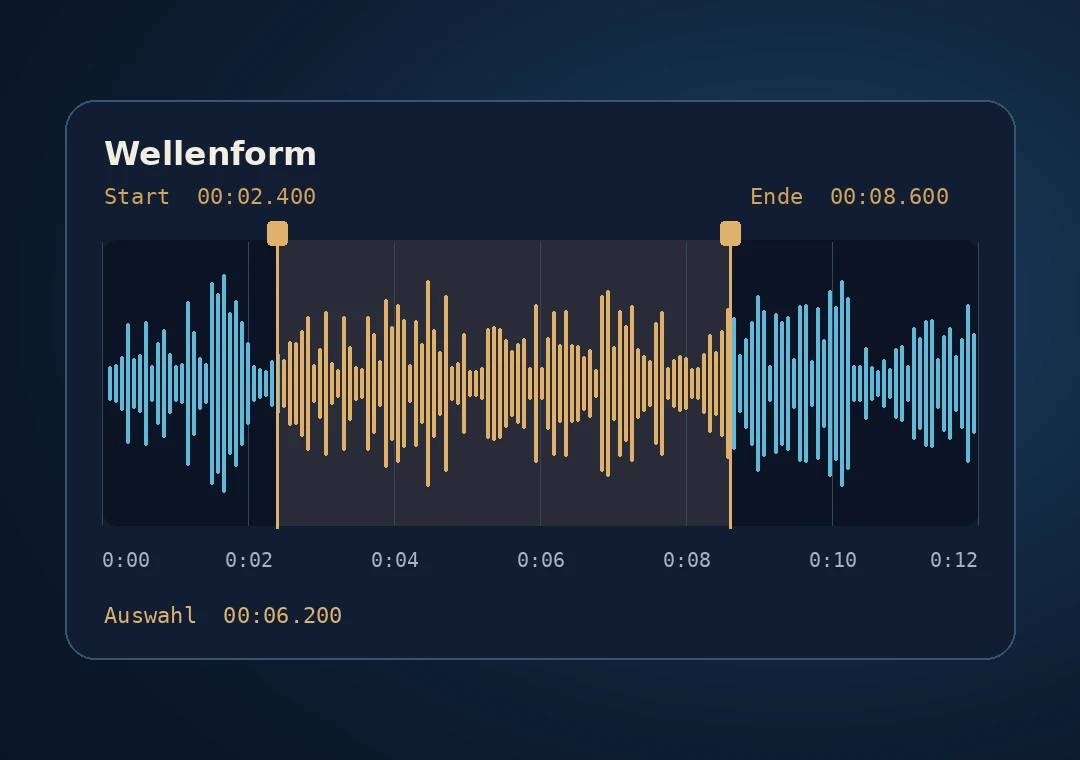
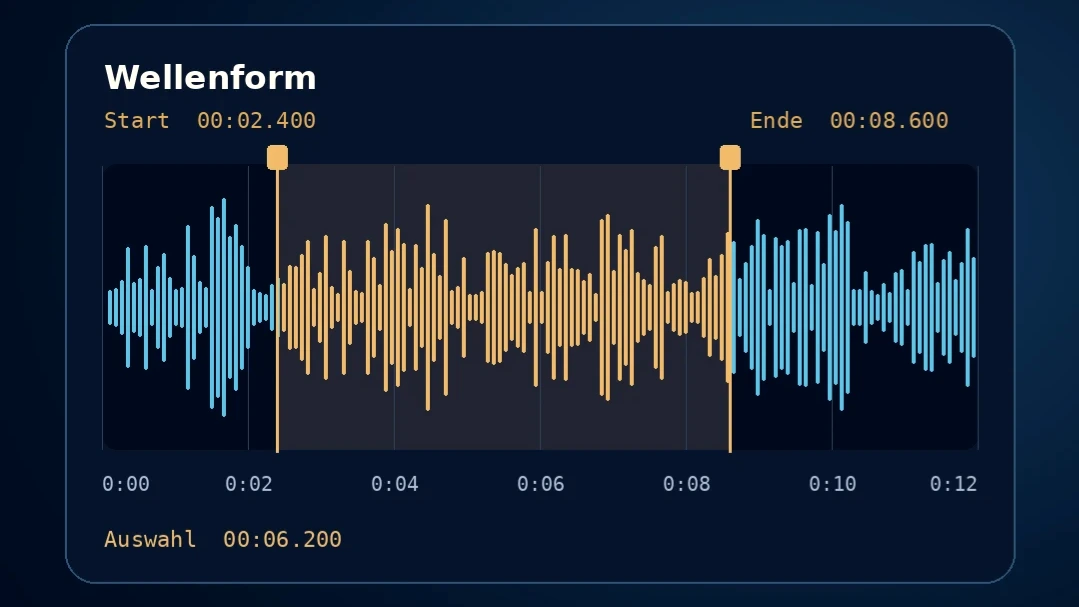
Landingpage: neues Hero-Bild (Wellenform), Seitenverhältnis 1079×607
Claude-Session: https://claude.ai/code/session_01Wb2bbwiurK5DHk1YE1DMzX

diff --git a/src/pages/LandingPage.vue b/src/pages/LandingPage.vue
@@ -55,8 +55,8 @@ const titleParts = computed(() => {
             class="cutter-landing__image"
             :src="heroImage"
             :alt="t('landing.imageAlt')"
-            width="1080"
-            height="760"
+            width="1079"
+            height="607"
             loading="eager"
             fetchpriority="high"
             decoding="async"

diff --git a/src/assets/kodini-stage1.css b/src/assets/kodini-stage1.css
@@ -184,7 +184,7 @@
   display: block;
   width: 100%;
   height: auto;
-  aspect-ratio: 1080 / 760;
+  aspect-ratio: 1079 / 607;
 }
 
 /* === Sektionen === */
